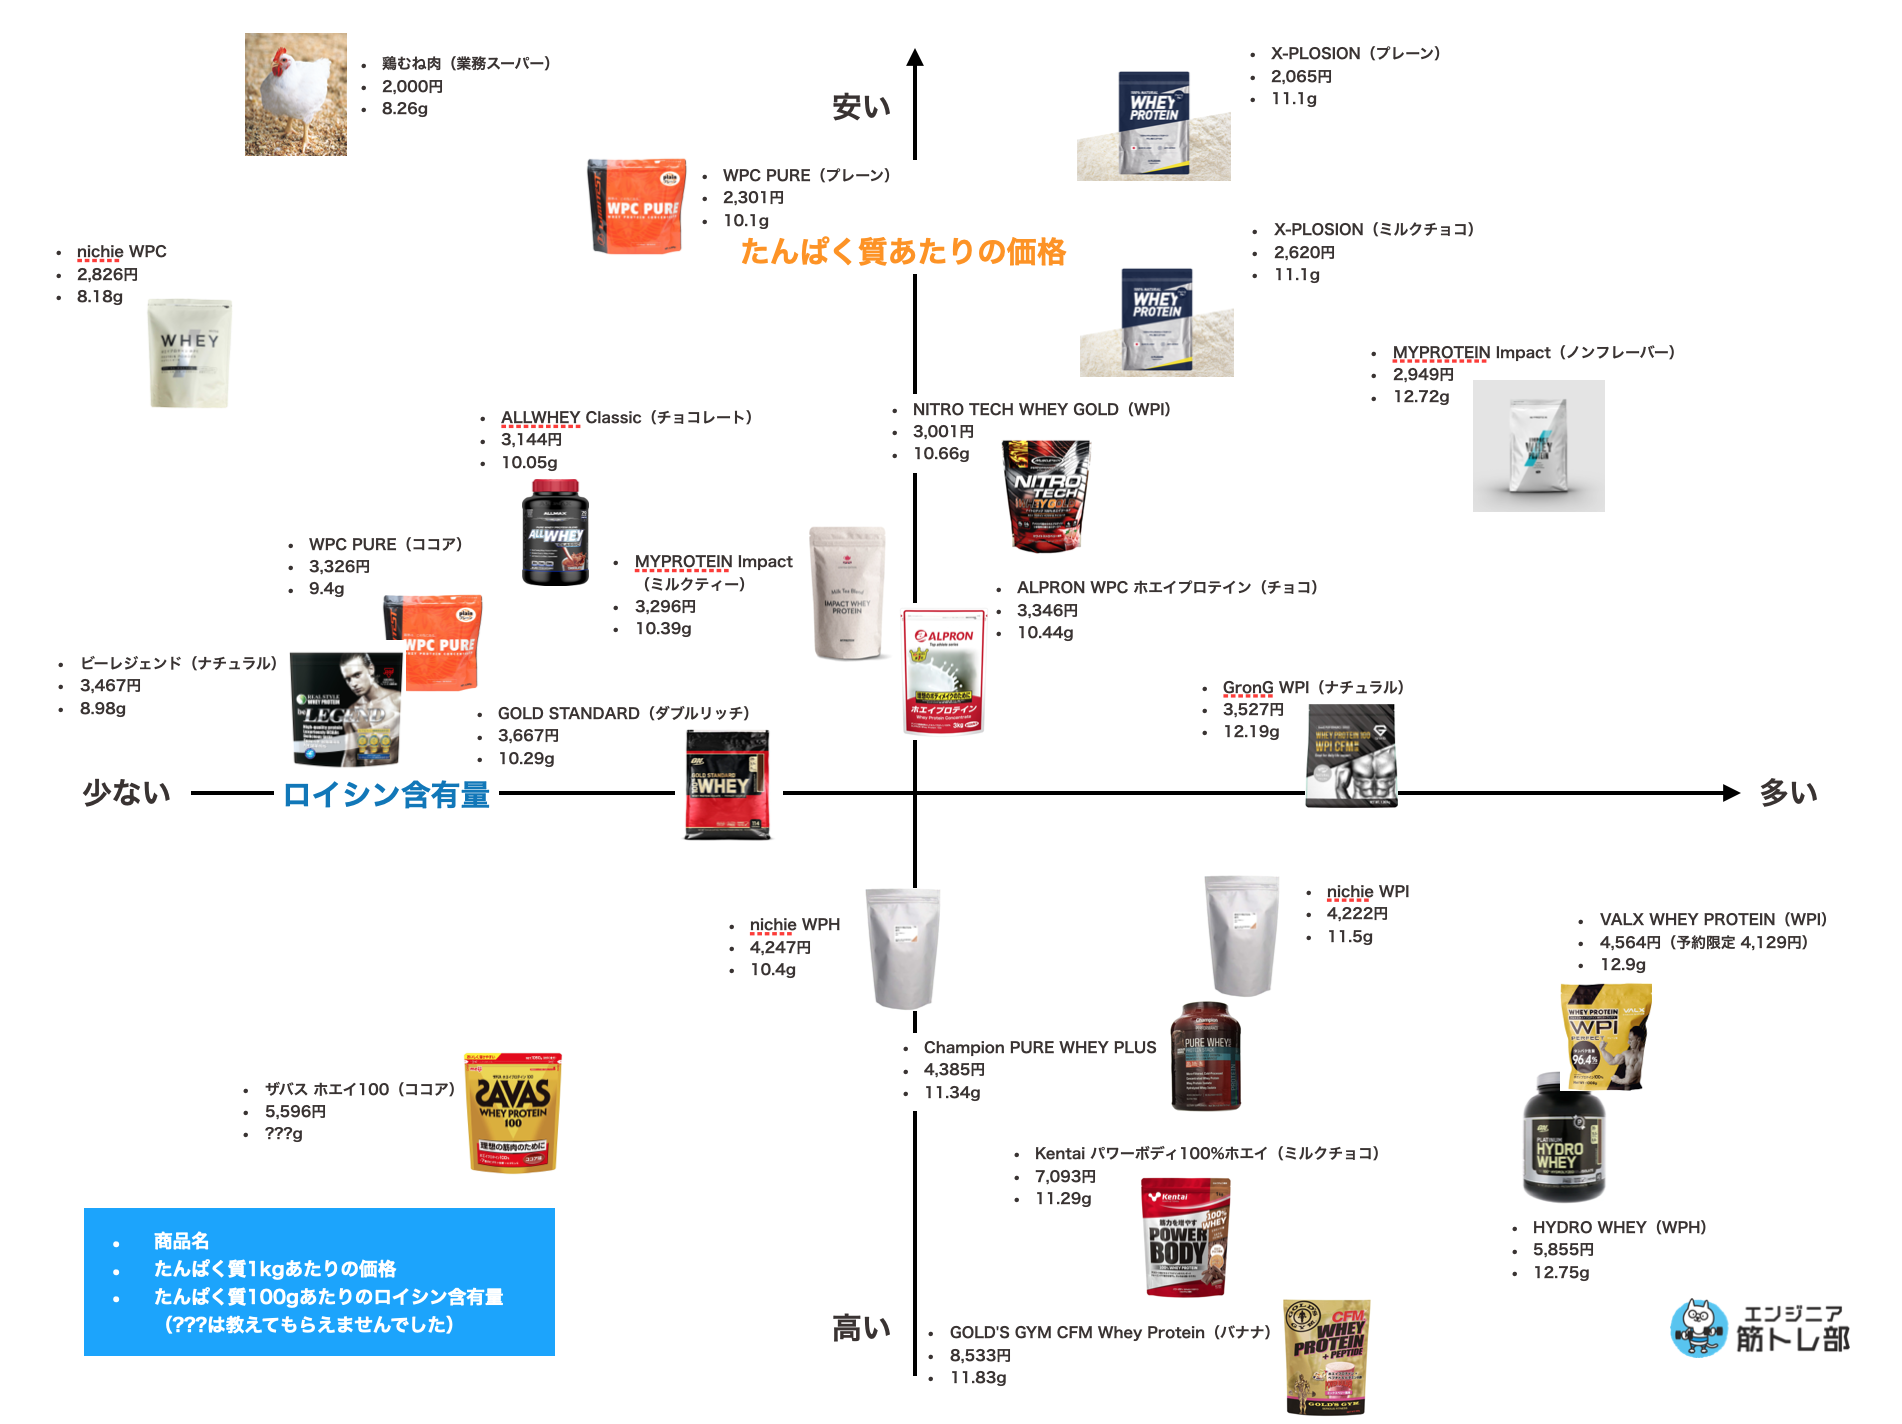
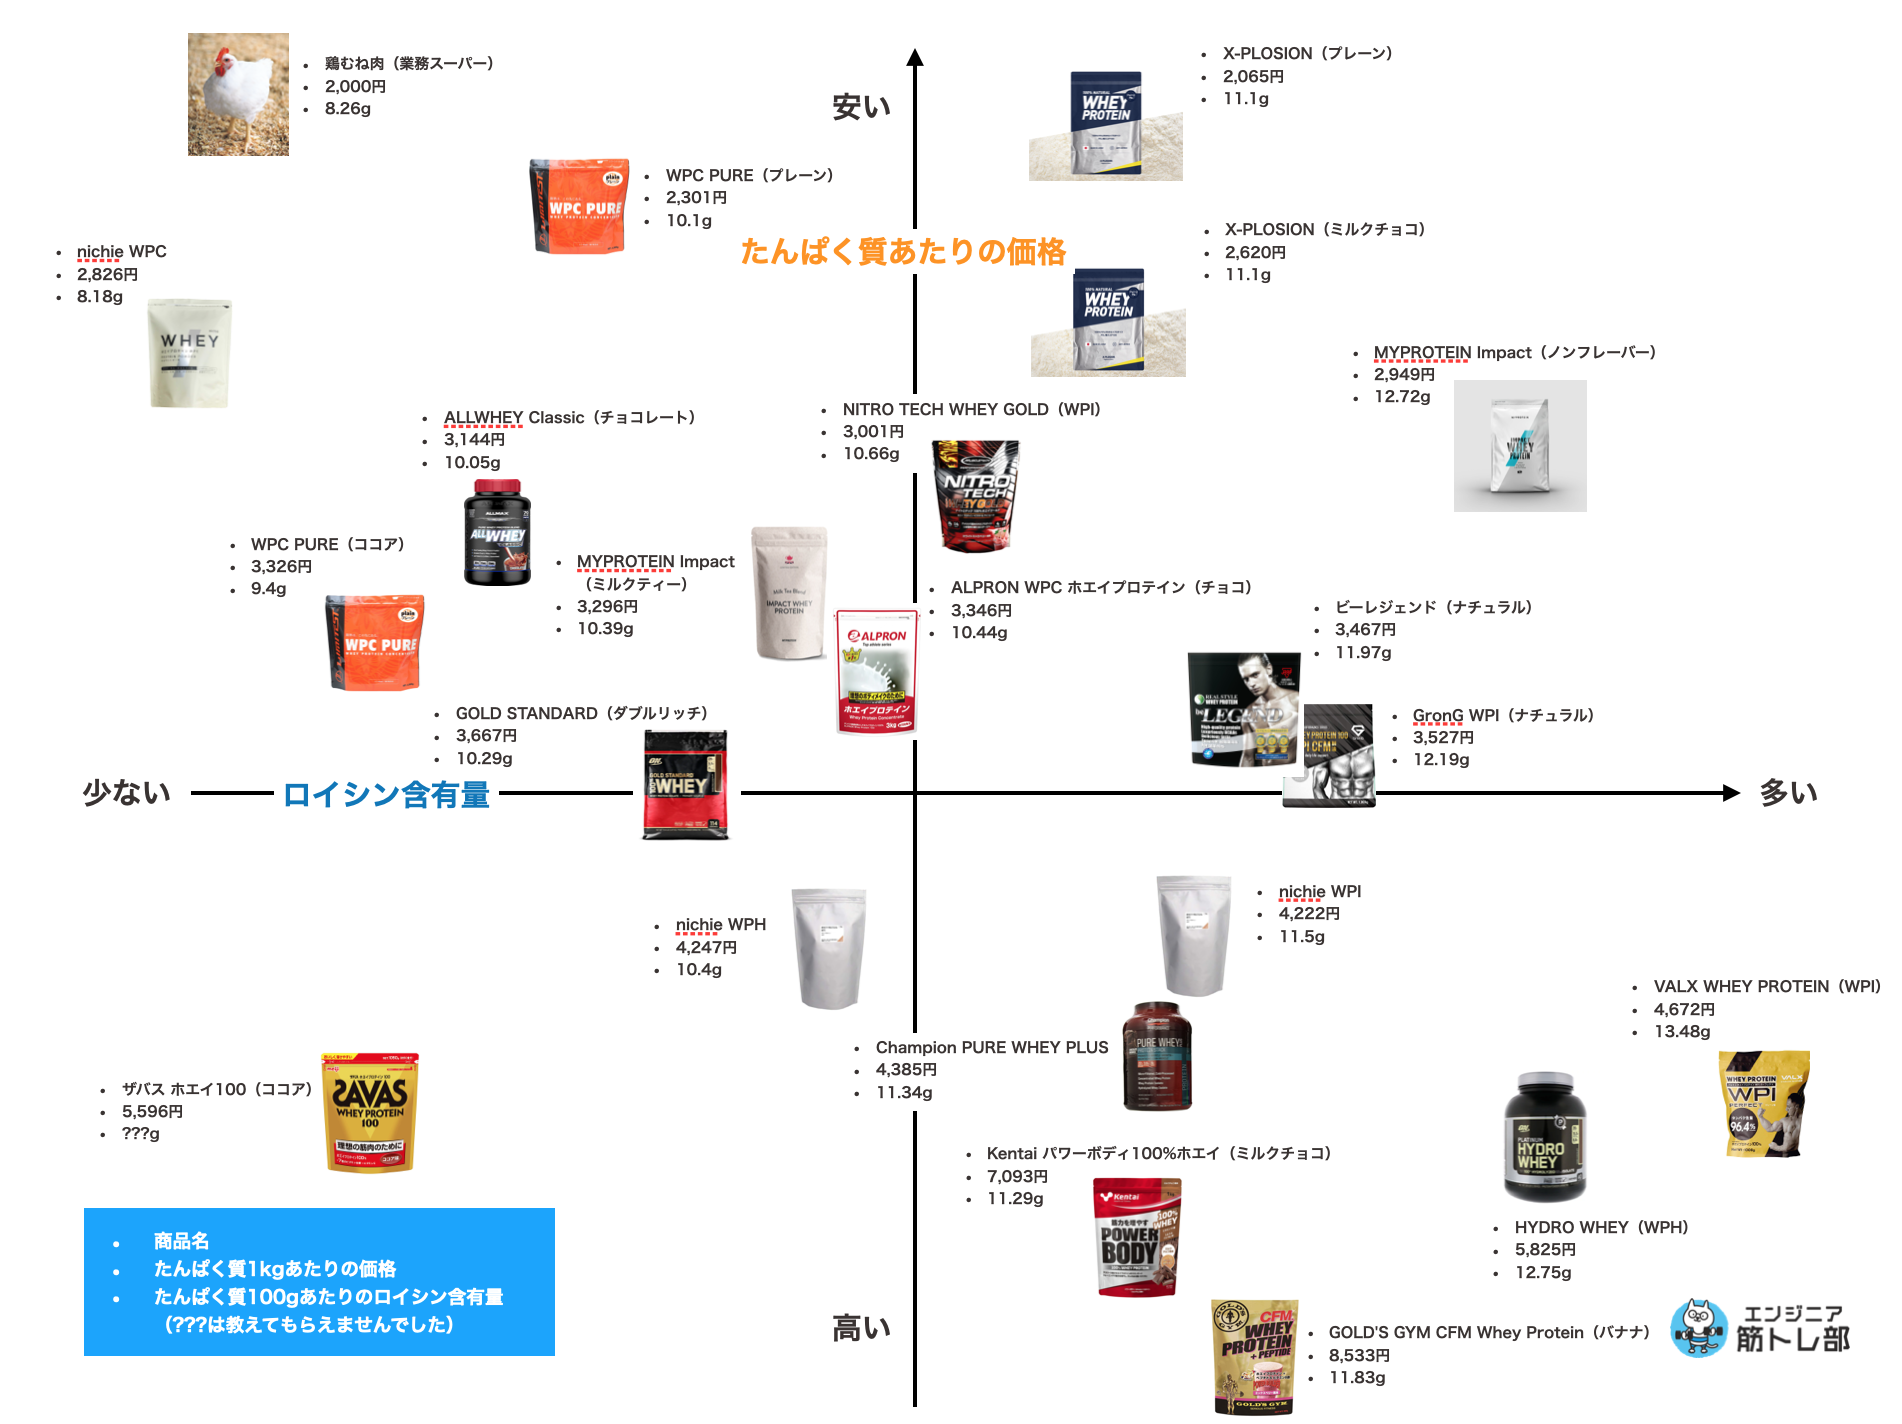
fix

diff --git a/content/post/2020-06-14---proteinmap.md b/content/post/2020-06-14---proteinmap.md
@@ -146,7 +146,7 @@ GOLD STANDARDの場合、<a href="https://massnutrition.com.au/products/optimum-
 筋力向上目的でホエイプロテインを購入する場合は、これらの分量と実際の価格を比較して、コスパを検討する必要があります。
 
 ## コスパの良いプロテインランキング
-上記で見たポイントについて、20種類のプロテインを比較しました。
+上記で見たポイントについて、20数種類のプロテインを比較しました。
 
 ### <i class="fa fa-trophy"></i>タンパク質あたりの価格ランキング
 
@@ -173,36 +173,41 @@ GOLD STANDARDの場合、<a href="https://massnutrition.com.au/products/optimum-
 | 14         | nichie WPH                                    | 4,222円                     |
 | 15         | nichie WPI                                    | 4,247円                     |
 | 16         | Champion PURE WHEY PLUS                       | 4,385円                     |
-| 17         | ザバス ホエイ100（ココア）                    | 5,596円                     |
-| 18         | Kentai パワーボディ100%ホエイ（ミルクチョコ） | 5,797円                     |
-| 19         | HYDRO WHEY（WPH）                             | 5,825円                     |
-| 20         | グリコ マックスロードホエイプロテイン         | 7,093円                     |
-| 21         | GOLD'S GYM CFM Whey Protein（バナナ）         | 8,533円                     |
+| 17         | VALX（プレーン）                                   | 4,672円                     |
+| 18         | ザバス ホエイ100（ココア）                    | 5,596円                     |
+| 19         | Kentai パワーボディ100%ホエイ（ミルクチョコ） | 5,797円                     |
+| 20         | HYDRO WHEY（WPH）                             | 5,825円                     |
+| 21         | グリコ マックスロードホエイプロテイン         | 7,093円                     |
+| 22         | GOLD'S GYM CFM Whey Protein（バナナ）         | 8,533円                     |
 
 
 ### <i class="fa fa-trophy"></i>ロイシン含有量ランキング
 
-ロイシン含有量が一番多いのは、<a href="https://px.a8.net/svt/ejp?a8mat=3BG5JH+7MGVFE+45DI+BW8O2&a8ejpredirect=https%3A%2F%2Fwww.myprotein.jp%2Fsports-nutrition%2Fimpact-whey-protein%2F10530943.html" target="_blank" rel="nofollow"><b>「MYPROTEIN Impactのノンフレーバー」</b></a>でした。<br>
+ロイシン含有量が一番多いのは、<b>VALXのプレーン味」</b>でした。<br>
+7月現在プレーン味は売り切れており、<a href="https://amzn.to/3iYubW8" target="_blank" rel="nofollow"><b>チョコ味</b></a>のみ購入可能です。<br>
 <br>
 
 | ランキング | ホエイプロテイン                             | ロイシン含有量g（タンパク質100gあたり）|
 |------------|----------------------------------------------|----------------------------------------|
-| 1          | MYPROTEIN Impact（ノンフレーバー）           | 12.72g                                 |
-| 2          | GronG WPI（ナチュラル）                      | 12.19g                                 |
-| 3          | GOLD'S GYM CFM Whey Protein（バナナ）        | 11.83g                                 |
-| 4          | nichie WPI                                   | 11.5g                                  |
-| 5          | Champion PURE WHEY PLUS                      | 11.34g                                 |
-| 6          | Kentai パワーボディ100%ホエイ（ミルクチョコ）| 11.29g                                 |
-| 7          | X-PLOSION（プレーン）                        | 11.1g                                  |
-| 8          | X-PLOSION（ミルクチョコ）                    | 11.1g                                  |
-| 9          | ALPRON WPC ホエイプロテイン（チョコ）        | 10.44g                                 |
-| 10         | nichie WPH                                   | 10.4g                                  |
-| 11         | MYPROTEIN Impact（ミルクティー）             | 10.39g                                 |
-| 12         | GOLD STANDARD（ダブルリッチ）                | 10.29g                                 |
-| 13         | ALLWHEY Classic（チョコレート）              | 10.05g                                 |
-| 14         | WPC PURE（プレーン）                         | 10.1g                                 |
-| 15         | WPC PURE（ココア）                           | 9.4g                                 |
-| 16         | nichie WPC                                   | 8.18g                                  |
+| 1          | VALX（プレーン）                                 | 13.48g                                  |
+| 2          | HYDRO WHEY（WPH）                             | 12.75g                            |
+| 3          | MYPROTEIN Impact（ノンフレーバー）           | 12.72g                                 |
+| 4          | GronG WPI（ナチュラル）                      | 12.19g                                 |
+| 5          | ビーレジェンド（ナチュラル）                    | 11.97g                     |
+| 6          | GOLD'S GYM CFM Whey Protein（バナナ）        | 11.83g                                 |
+| 7          | nichie WPI                                   | 11.5g                                  |
+| 8          | Champion PURE WHEY PLUS                      | 11.34g                                 |
+| 9          | Kentai パワーボディ100%ホエイ（ミルクチョコ）| 11.29g                                 |
+| 10         | X-PLOSION（プレーン）                        | 11.1g                                  |
+| 11         | X-PLOSION（ミルクチョコ）                    | 11.1g                                  |
+| 12         | ALPRON WPC ホエイプロテイン（チョコ）        | 10.44g                                 |
+| 13         | nichie WPH                                   | 10.4g                                  |
+| 14         | MYPROTEIN Impact（ミルクティー）             | 10.39g                                 |
+| 15         | GOLD STANDARD（ダブルリッチ）                | 10.29g                                 |
+| 16         | WPC PURE（プレーン）                         | 10.1g                                 |
+| 17         | ALLWHEY Classic（チョコレート）              | 10.05g                                 |
+| 18         | WPC PURE（ココア）                           | 9.4g                                 |
+| 19         | nichie WPC                                   | 8.18g                                  |
 
 
 ### <i class="fa fa-trophy"></i>ロイシンあたりの価格ランキング
@@ -217,17 +222,20 @@ GOLD STANDARDの場合、<a href="https://massnutrition.com.au/products/optimum-
 | 3          | MYPROTEIN Impact（ノンフレーバー）           | 23.18円                                |
 | 4          | X-PLOSION（ミルクチョコ）                    | 23.60円                                |
 | 5          | GronG WPI（ナチュラル）                      | 28.93円                                |
-| 6          | ALLWHEY Classic（チョコレート）              | 31.28円                                |
-| 7          | MYPROTEIN Impact（ミルクティー）             | 31.73円                                |
-| 8          | ALPRON WPC ホエイプロテイン（チョコ）        | 32.05円                                |
-| 9          | nichie WPC                                   | 34.55円                                |
-| 10         | GOLD STANDARD（ダブルリッチ）                | 35.63円                                |
-| 11         | WPC PURE（ココア）                           | 35.78円                                |
-| 12         | nichie WPI                                   | 36.93円                                |
-| 13         | Champion PURE WHEY PLUS                      | 38.80円                                |
-| 14         | nichie WPH                                   | 40.60円                                |
-| 15         | Kentai パワーボディ100%ホエイ（ミルクチョコ）| 51.35円                                |
-| 16         | GOLD'S GYM CFM Whey Protein（バナナ）        | 72.11円                                |
+| 6          | ビーレジェンド（ナチュラル）                    | 28.95g                     |
+| 7          | ALLWHEY Classic（チョコレート）              | 31.28円                                |
+| 8          | MYPROTEIN Impact（ミルクティー）             | 31.73円                                |
+| 9          | ALPRON WPC ホエイプロテイン（チョコ）        | 32.05円                                |
+| 10         | nichie WPC                                   | 34.55円                                |
+| 11         | VALX（プレーン）                                 | 34.66円                                 |
+| 12         | WPC PURE（ココア）                           | 35.38円                                |
+| 13         | GOLD STANDARD（ダブルリッチ）                | 35.63円                                |
+| 14         | nichie WPI                                   | 36.93円                                |
+| 15         | Champion PURE WHEY PLUS                      | 38.80円                                |
+| 16         | nichie WPH                                   | 40.60円                                |
+| 17         | HYDRO WHEY（WPH）                             | 45.70円                            |
+| 18         | Kentai パワーボディ100%ホエイ（ミルクチョコ）| 51.35円                                |
+| 19         | GOLD'S GYM CFM Whey Protein（バナナ）        | 72.11円                                |
 
 <br>
 こうしてみると、「X-PLOSION（プレーン）」のコスパが高いことが分かります。<br>

diff --git a/content/post/2020-07-07---review_gold_standard.md b/content/post/2020-07-07---review_gold_standard.md
@@ -55,8 +55,8 @@ WPC・WPI・WPHをついては、<a href="https://physique-engineer.jp/post/whey
 ## ゴールドスタンダードの特徴
 ### <i class="fa fa-check"></i>コスパは普通
 本ブログではコスパは、<b>「タンパク質とロイシンあたりの価格が安いこと」</b>という定義にしています。<br>
-ゴールドスタンダードをその基準で評価すると、<b>タンパク質あたりの価格は、13番目（全21種中）に安く</b>、<b>ロイシンあたりの価格は、10番目（全16種中）に安い</b>結果となっています。<br>
-価格が安めのものを中心に調査したため、順位自体は低くなっていますが、<b>金額的に上位陣とそこまで差があるわけでもない</b>ので、決してコスパが悪いわけではありません。<br>
+ゴールドスタンダードをその基準で評価すると、<b>タンパク質あたりの価格は、13番目（全22種中）に安く</b>、<b>ロイシンあたりの価格は、15番目（全19種中）に安い</b>結果となっています。<br>
+そもそもコスパが良さそうなものを中心に調査しているため、順位自体は低くなっていますが、<b>金額的に上位陣とそこまで差があるわけでもない</b>ので、決してコスパが悪いわけではありません。<br>
 <br>
 
 {{<a href="/post/2020-06-14---proteinmap.md">}}

diff --git a/content/post/2020-07-09---review_myprotein.md b/content/post/2020-07-09---review_myprotein.md
@@ -74,7 +74,7 @@ WPIとWPCについては、<a href="https://physique-engineer.jp/post/whey-prote
 
 ### <i class="fa fa-check"></i>コスパが良い
 本ブログではコスパは、<b>「タンパク質とロイシンあたりの価格が安いこと」</b>という定義にしています。<br>
-マイプロテインをその基準で評価すると、<b>タンパク質あたりの価格は、5番目（全21種中）に安く</b>、<b>ロイシンあたりの価格は、3番目（全16種中）に安い</b>結果となっています。<br>
+マイプロテインをその基準で評価すると、<b>タンパク質あたりの価格は、5番目（全22種中）に安く</b>、<b>ロイシンあたりの価格は、3番目（全19種中）に安い</b>結果となっています。<br>
 <br>
 
 {{<a href="/post/2020-06-14---proteinmap.md">}}

diff --git a/content/post/2020-07-11---anhydrous_protein.md b/content/post/2020-07-11---anhydrous_protein.md
@@ -99,6 +99,7 @@ WPC PUREは、<b>無水換算値でタンパク質が82.1%含まれている</b>
 | エクスプロージョン（プレーン）       | 81       | 75.33        | 93.00                 |
 | nichie ホエイプロテイン WPI     | 96       | 89          | 92.71                  |
 | GronG WPI（ナチュラル）          | 88.6      | 84.48       | 95.35                  |
+| VALX（プレーン）                | 96.4      | 92          | 95.44                  |
 | ザバス ホエイ100（ココア）         | 75        | 71.43       | 95.24                  |
 | Kentai パワーボディ100%ホエイ    | 77        | 73.5       | 95.45                  |
 | グリコ ホエイプロテイン           | 70.3       | 67         | 95.31                  |
